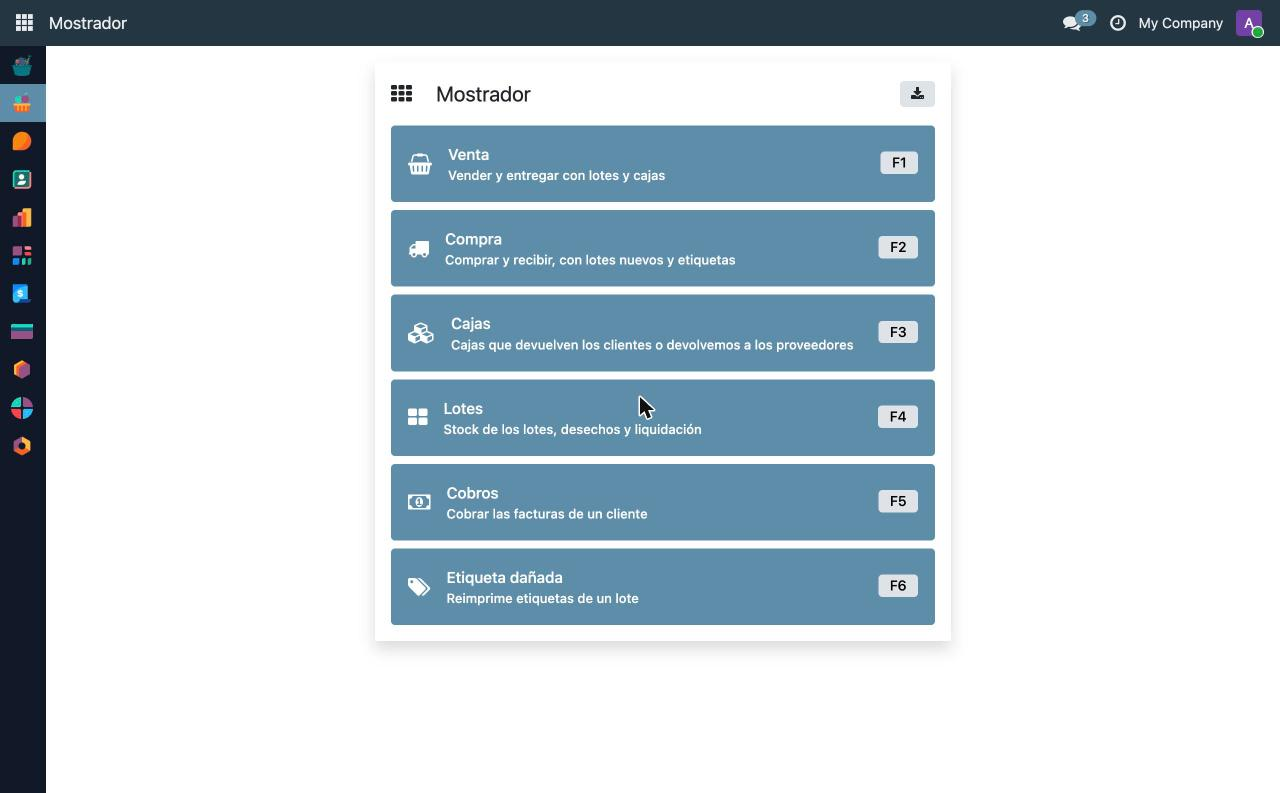
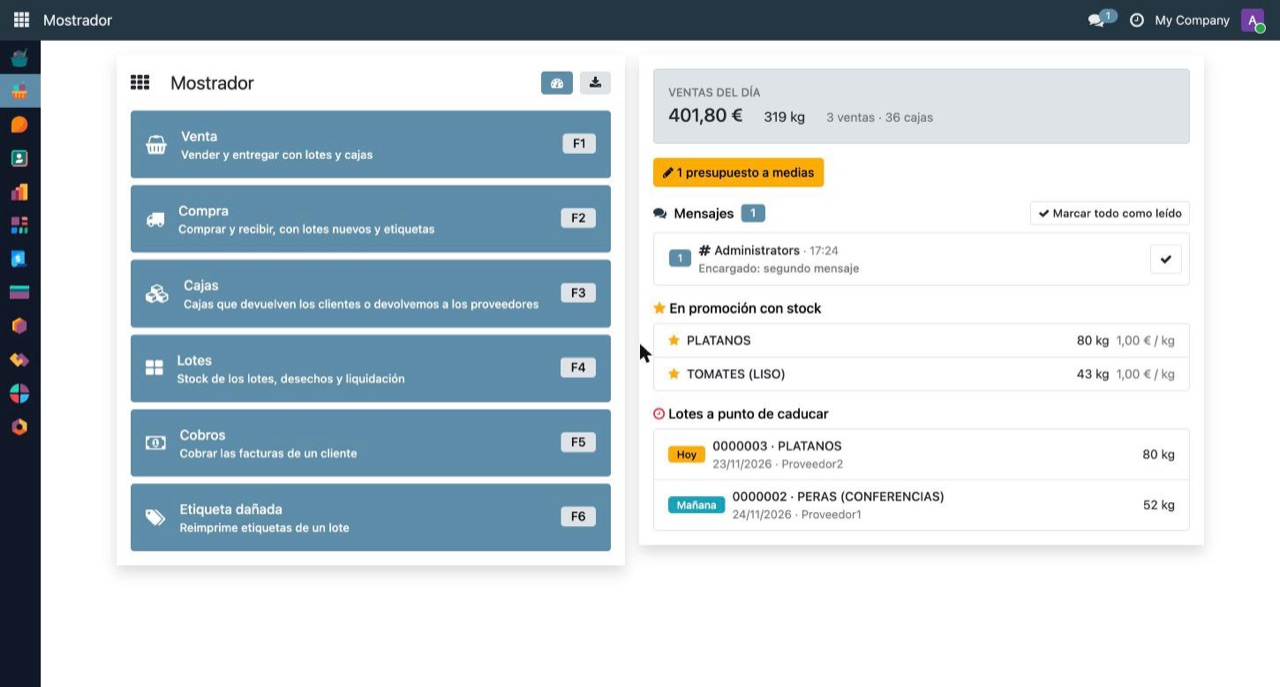
formacion_mercas: cuadro de mandos del Mostrador y resumen de Dirección
- 02: pantalla de inicio con el cuadro de mandos (ventas del día, mensajes,
  promociones, lotes a punto de caducar y sin fecha).
- 13 (nuevo): estrella de promoción, aviso de caducidad y "Sin caducidad",
  Mercas > Dirección y el correo de cada tarde.
- 20, 30, 31, README, glosario y guion del podcast actualizados.
- Capturas nuevas img/100-106 y 00_inicio_mostrador rehecha.

diff --git a/formacion_mercas/13_encargado_cuadro_de_mandos.md b/formacion_mercas/13_encargado_cuadro_de_mandos.md
@@ -1,0 +1,77 @@
+# 13 · Cuadro de mandos: promociones, caducidades y Dirección
+
+El cuadro de mandos tiene dos partes:
+
+- **En el Mostrador**, para la báscula: ventas del día, mensajes, productos en promoción y lotes que caducan ([capítulo 02](02_mostrador.md#el-cuadro-de-mandos-a-la-derecha)). El encargado decide qué sale ahí.
+- **En Odoo, menú Mercas › Dirección**, para el encargado y la dirección: cómo van las ventas, las compras, las mermas y la deuda.
+
+## 1. Productos en promoción: la estrella
+
+![Ficha del producto con la estrella y el aviso de caducidad](img/100_producto_estrella_caducidad.jpg)
+
+En la ficha del producto (**Mercas › Productos**), toca la **estrella** junto al nombre.
+
+- El producto sale en **En promoción con stock** del Mostrador mientras tenga stock.
+- En la venta (F1), al elegir familia, los productos con estrella **salen los primeros** y con la estrella en la ficha ([capítulo 20](20_bascula_venta.md)).
+- Para quitarlo de la promoción, vuelve a tocar la estrella.
+
+## 2. Caducidad de los lotes
+
+En la misma ficha del producto, para los productos con lote:
+
+| Campo | Para qué sirve |
+|---|---|
+| **Aviso de caducidad (días)** | Cuántos días antes de caducar un lote sale en **Lotes a punto de caducar**. Con **0** solo avisa el mismo día. En la formación, TOMATES, PERAS y PLATANOS tienen **3**. |
+| **Sin caducidad** | Sus lotes no caducan. No salen en **Lotes sin fecha de caducidad**. |
+
+La **fecha de caducidad** se pone **en cada lote**: en su ficha (F4 › *Detalle*, o tocando el lote en el cuadro del Mostrador) o en **Mercas › Lotes**.
+
+- Un lote nuevo toma **Sin caducidad** de su producto, pero se puede cambiar lote a lote.
+- En la lista de **Mercas › Lotes** hay un filtro **Sin fecha de caducidad** para repasar los que faltan.
+- La báscula ve el aviso también **al elegir el lote** en una venta: «Caducado», «Hoy», «Mañana» o «En N días».
+- **Un lote caducado se puede vender igualmente**: el Mostrador avisa, pero no lo impide. La decisión es de quien vende.
+
+## 3. Mercas › Dirección
+
+Lo ven los **administradores de ventas** y los **administradores de facturación**. A otra persona se le puede dar el permiso *Mercas: Dirección* (con el modo desarrollador).
+
+Arriba se elige la **fecha** del informe: hoy, por defecto, o cualquier día pasado.
+
+### Gráficos
+
+![Gráficos de Dirección](img/104_direccion_graficos.jpg)
+
+| Gráfico | Qué compara |
+|---|---|
+| **Semana, día a día** | Cada día de esta semana con la semana anterior y con la misma semana (por número) del año pasado. |
+| **Mes, acumulado** | Lo vendido este mes, día a día y sumando, con el mes anterior y el mismo mes del año pasado. La línea discontinua es la **previsión** de cierre. |
+| **Año, acumulado por meses** | Este año con el año pasado, con su previsión. |
+| **Deuda pendiente de clientes** | Lo que nos deben, por antigüedad: sin vencer, 1–30, 31–60, 61–90 y más de 90 días. |
+
+Al pasar el dedo (o el ratón) por un punto se ven los importes de ese día o mes.
+
+### Resumen
+
+![Fichas, ritmo y deuda](img/105_direccion_resumen.jpg)
+
+- **Fichas Día, Semana, Mes y Año:** importe y kg netos, con ▲▼ frente al año pasado. Las barras comparan:
+  - **el día** con el mismo día de la semana anterior y con el mismo día de la misma semana del año pasado (lunes de la semana 40 con lunes de la semana 40);
+  - **la semana** con la semana anterior completa y con la misma semana completa del año pasado: se ve «llevamos el X %»;
+  - **el mes** con el mes anterior completo («llevamos el X %») y con el mismo mes del año pasado.
+- **Ritmo del mes y del año:** lo vendido hasta hoy, la previsión de cierre a este ritmo y lo del año pasado a estas alturas y en total.
+- **Deuda de clientes:** la de hoy y la de hace un mes, a la misma escala, para ver si la deuda vieja crece.
+- Más abajo, las tablas: **ventas** (importe, kg, precio/kg, ventas y cajas), **compras y mermas** (% de merma), **deuda** (clientes y proveedores, por antigüedad y los que más deben), **pendiente** (ventas sin facturar y lotes por liquidar) y **cobros del día** por diario.
+
+Todos los importes son **sin impuestos**, y los kg son **netos**, sin las cajas.
+
+### El informe por correo
+
+El botón **Enviar por correo** lo manda en el momento. Además, cada tarde sale solo a quien lo tenga activado en su usuario:
+
+![Permiso para recibir el resumen por correo](img/106_usuario_resumen_correo.jpg)
+
+**Ajustes › Usuarios** › el usuario › pestaña **Permisos de acceso** › sección **Ventas** › **Resumen de Dirección por correo**: **Cada tarde**.
+
+- El usuario necesita un **correo electrónico** en su ficha.
+- Quien lo recibe por correo también puede ver la pantalla de Dirección.
+- El correo lleva las fichas, el ritmo, la deuda y las tablas, pero **no los gráficos de arriba**: los programas de correo no los muestran.

diff --git a/formacion_mercas/31_ejercicio_dia_completo.md b/formacion_mercas/31_ejercicio_dia_completo.md
@@ -12,30 +12,36 @@ Hazlo en la **base de pruebas**, con los clientes y proveedores de formación. C
 2. **Compra en liquidación** a Proveedor2: plátano, 250 kg brutos, 20 cajas ASCOY, 0,70 €/kg.
    - ✔ Comprueba: la casilla *Facturación firme* viene **desmarcada** y el neto es **220 kg**.
 
+3. **Promociones y caducidades** ([cap. 13](13_encargado_cuadro_de_mandos.md)): marca con la ⭐ el tomate y el plátano, y pon **3 días** de *Aviso de caducidad* a los tres productos.
+   - Pon al lote de pera una **fecha de caducidad** de mañana desde su ficha (F4 › *Detalle*).
+   - ✔ Comprueba: en la pantalla de inicio del Mostrador salen el tomate y el plátano **en promoción**, y la pera en **Lotes a punto de caducar** con «Mañana».
+
 ## Durante el día · Báscula
 
-3. **Cliente1 (fin de mes)** ([cap. 20](20_bascula_venta.md)):
+4. **Cliente1 (fin de mes)** ([cap. 20](20_bascula_venta.md)):
    - Tomate: 50 kg brutos en 5 cajas **MARI PILI** (nuestras), 1,20 €/kg. ✔ Neto **39 kg**.
    - Pera: 34,5 kg brutos en 3 cajas **ASCOY** (las de la compra), 1,50 €/kg. ✔ Neto **30 kg**.
    - Vender y entregar, e imprimir **solo el albarán**.
-4. **Cliente2 (contado)** ([cap. 21](21_bascula_contado.md)):
+5. **Cliente2 (contado)** ([cap. 21](21_bascula_contado.md)):
    - Plátano en 4 cajas MARI PILI. El bruto son dos pesadas de 24,4 kg: escríbelo con la **calculadora**. ✔ Neto **40 kg**.
    - Vender, **Facturar** y **Cobrar con tarjeta**.
-5. **Cliente1 devuelve sus 5 cajas** MARI PILI como **saldo** ([cap. 22](22_bascula_cajas.md)).
-6. Se rompe una etiqueta del lote de tomate: **reimprime solo 1** ([cap. 23](23_bascula_etiqueta.md)).
-7. **Pedido en camión de Cliente1** ([cap. 24](24_bascula_palets_deca_correo.md)): tomate en 6 cajas MARI PILI, pera en 8 ASCOY y plátano en 10 MARI PILI.
+6. **Cliente1 devuelve sus 5 cajas** MARI PILI como **saldo** ([cap. 22](22_bascula_cajas.md)).
+7. Se rompe una etiqueta del lote de tomate: **reimprime solo 1** ([cap. 23](23_bascula_etiqueta.md)).
+8. **Pedido en camión de Cliente1** ([cap. 24](24_bascula_palets_deca_correo.md)): tomate en 6 cajas MARI PILI, pera en 8 ASCOY y plátano en 10 MARI PILI.
    - **Palets:** reparto rápido en 2 palets europeos; después pasa 2 cajas de pera al palet 1 y cambia el palet 2 a desechable, de 1.100 mm.
    - Vender y entregar. ✔ Comprueba: en la cabecera aparece **1 europalet** junto a las cajas.
    - **DeCA** con Transportista1 y las matrículas. ✔ Comprueba: el aviso de datos pendientes desaparece.
    - **Imprimir:** ✔ Comprueba que se ofrecen albarán, DeCA y packing list.
    - **Enviar por correo:** revisa los destinatarios (en formación, no pulses *Enviar*).
+9. **Cuadro de mandos** ([cap. 02](02_mostrador.md)): toca el lote de pera en *Lotes a punto de caducar* y comprueba que se abre su ficha. Si hay mensajes sin leer, ábrelos o márcalos como leídos.
 
 ## Cierre · Encargado
 
-8. Desecha 3 kg de tomate ([cap. 11](11_encargado_lotes.md)).
-9. Prueba a **Liquidar** el lote de plátano. ¿Qué mensaje sale y por qué? Haz después un **adelanto** y revisa el margen.
-10. **Fin de mes de Cliente1** ([cap. 12](12_encargado_facturacion.md)): *Para facturar* › Facturar › Cobrar en **efectivo** aplicando el saldo de las cajas.
+10. Desecha 3 kg de tomate ([cap. 11](11_encargado_lotes.md)).
+11. Prueba a **Liquidar** el lote de plátano. ¿Qué mensaje sale y por qué? Haz después un **adelanto** y revisa el margen.
+12. **Fin de mes de Cliente1** ([cap. 12](12_encargado_facturacion.md)): *Para facturar* › Facturar › Cobrar en **efectivo** aplicando el saldo de las cajas.
    - ✔ Comprueba: se cobra la factura **menos el saldo** de las cajas.
+13. **Dirección** ([cap. 13](13_encargado_cuadro_de_mandos.md)): abre **Mercas › Dirección** y busca las ventas del día y la previsión de cierre del mes.
 
 ## Preguntas de repaso
 
@@ -44,3 +50,5 @@ Hazlo en la **base de pruebas**, con los clientes y proveedores de formación. C
 3. ¿Cuándo se usa *Liquidar* y cuándo *Facturar adelanto*?
 4. Un cliente devuelve cajas y paga a fin de mes. ¿Saldo o pagar ahora?
 5. ¿Dónde encuentras una venta que dejaste a medias?
+6. Un lote sale como «Caducado» al elegirlo. ¿Se puede vender? ¿Qué deberías hacer?
+7. ¿Dónde se decide con cuántos días de antelación avisa un lote antes de caducar?

diff --git a/formacion_mercas/02_mostrador.md b/formacion_mercas/02_mostrador.md
@@ -21,6 +21,26 @@ Hay un botón por tarea, cada uno con su tecla de función:
 - **F5 no recarga la página** en el Mostrador: abre *Cobros*. Para recargar, usa el botón del navegador.
 - El botón de descarga (arriba a la derecha) **instala el Mostrador como aplicación** en la tablet.
 
+## El cuadro de mandos (a la derecha)
+
+Junto a los botones está lo que hay que saber de un vistazo. En una pantalla estrecha sale debajo de los botones.
+
+| Apartado | Qué muestra | Qué hacer |
+|---|---|---|
+| **Ventas del día** | Importe sin impuestos, kg netos, número de ventas y de cajas. | Solo informa. |
+| **Presupuestos a medias** y **ventas por entregar** | Ventas que alguien dejó sin terminar, y ventas confirmadas que aún no han salido. | Toca el botón amarillo para ir a **F1 › En curso**. |
+| **Mensajes** | Canales y chats con mensajes sin leer: cuántos, de quién y el último. | Toca la fila para abrir la conversación y contestar. Con **✓** se marca como leída sin abrirla; **Marcar todo como leído** las marca todas. |
+| **En promoción con stock** ⭐ | Productos marcados con la estrella que tienen stock, con los kg y el precio. | Son los que hay que ofrecer primero. |
+| **Lotes a punto de caducar** | Lotes con stock que caducan pronto, los caducados primero: «Caducado», «Hoy», «Mañana» o «En N días». | Toca el lote para abrir su ficha. Véndelo antes, o desecha lo que ya no sirva (F4). |
+| **Lotes sin fecha de caducidad** | Lotes con stock sin fecha y sin marcar como «Sin caducidad». | Toca el lote y rellena su **Fecha de caducidad** o marca **Sin caducidad**. |
+
+![Ficha del lote abierta desde el cuadro de mandos](img/101_panel_ficha_lote.jpg)
+
+- Al tocar un lote se abre **su ficha**, igual que con *Detalle* en F4. Se puede corregir la fecha de caducidad, marcar *Sin caducidad*, o desechar, imprimir etiquetas o hacer inventario. Al cerrarla, el cuadro se actualiza.
+- El cuadro **se actualiza solo** con cada venta, compra o desecho, en cualquier pantalla, al llegar un mensaje y, además, cada 5 minutos.
+- El botón del **cuentakilómetros** (arriba, junto al de descarga) **muestra u oculta** el cuadro. En morado se ve; en gris está oculto. Cada tablet recuerda su elección: se puede ocultar en una báscula y dejar en otra.
+- Qué productos salen en promoción y con cuántos días de antelación avisa cada lote lo decide el encargado ([capítulo 13](13_encargado_cuadro_de_mandos.md)).
+
 ## Teclado numérico y calculadora
 
 Todos los números (kg, precio, importe…) se pueden escribir con el **teclado de la pantalla**, con el del dispositivo o con una **báscula que escriba como teclado**.

diff --git a/formacion_mercas/30_errores_frecuentes.md b/formacion_mercas/30_errores_frecuentes.md
@@ -21,6 +21,7 @@
 | He salido a mitad de una venta. | No pasa nada: está en **F1 › En curso**. |
 | He vendido y me he equivocado de precio. | Si aún no está facturado, el encargado lo corrige desde **Abrir**. Si ya está facturado, hace falta un abono. |
 | El cliente supera su riesgo. | El pedido se queda en presupuesto y aparece un aviso. Solo un responsable de riesgo puede dejarlo continuar. |
+| Un lote sale como **Caducado** al elegirlo. | Se puede vender, pero mejor elige otro lote si lo hay, o pregunta al encargado. |
 
 ## Cobros
 
@@ -45,3 +46,14 @@
 | **Factura firme** da error. | Algún lote marcado no es de facturación firme. |
 | La liquidación paga el precio de venta íntegro. | El margen del proveedor (o el general de la empresa) está a 0 %. |
 | Se ha dejado el **lote** vacío en una compra que traía lote del proveedor. | Se crea un lote nuevo, lo cual es correcto. Solo hay que escribir el lote si interesa conservar el del proveedor. |
+| Un lote sale en **Lotes sin fecha de caducidad** y no caduca nunca. | Márcalo como **Sin caducidad** en su ficha, o en el producto para todos sus lotes ([capítulo 13](13_encargado_cuadro_de_mandos.md)). |
+| Un lote **no avisa** antes de caducar. | El producto tiene **Aviso de caducidad (días)** a 0: solo avisa el mismo día. Pon los días en su ficha. |
+
+## Cuadro de mandos y Dirección
+
+| Error | Solución |
+|---|---|
+| No se ve el cuadro de mandos en el Mostrador. | Está oculto en esa tablet: toca el botón del **cuentakilómetros**, junto al de descarga. |
+| Un producto no sale en **En promoción con stock**. | No tiene la estrella o no tiene stock. |
+| No veo el menú **Mercas › Dirección**. | Hace falta ser administrador de ventas o de facturación, o tener el permiso *Mercas: Dirección*. |
+| No me llega el **correo de Dirección**. | Activa **Resumen de Dirección por correo: Cada tarde** en tu usuario y comprueba que tienes correo electrónico. |

diff --git a/formacion_mercas/glosario.md b/formacion_mercas/glosario.md
@@ -5,10 +5,13 @@
 | **Adelanto (de liquidación)** | Factura al proveedor de lo vendido hasta hoy de un lote en liquidación que aún tiene stock. |
 | **Albarán** | Documento de entrega de la mercancía. *Vender y entregar* lo valida. |
 | **Bruto** | Peso total en la báscula, con las cajas. |
+| **Caducidad** | Fecha en que caduca un lote. Se pone en el lote; el producto dice cuántos días antes se avisa (*Aviso de caducidad*) o que no caduca (*Sin caducidad*). |
 | **Caja / envase** | Producto que se cuenta y se cobra aparte. Su peso es la tara. |
 | **Compensar** | Convertir el importe de las cajas devueltas en saldo a favor del cliente. |
+| **Cuadro de mandos** | Parte derecha de la pantalla de inicio del Mostrador: ventas del día, mensajes, promociones y lotes que caducan. |
 | **DeCA** | Documento de control del transporte de mercancía. |
 | **Desechar** | Dar de baja kg estropeados de un lote. |
+| **Dirección (resumen de)** | Menú *Mercas › Dirección*: ventas, compras, mermas y deuda comparadas con otros periodos. Se puede recibir cada tarde por correo. |
 | **Facturación firme** | Trato con el proveedor: se le paga todo lo recibido. |
 | **Liquidación por venta** | Trato con el proveedor: se le paga lo vendido menos nuestro margen. |
 | **Liquidar** | Factura final al proveedor de un lote en liquidación ya agotado. |
@@ -18,5 +21,6 @@
 | **Neto** | Bruto menos la tara: lo que se compra o se vende. |
 | **Packing list** | Relación de palets y cajas de un pedido. |
 | **Presupuesto** | Venta en preparación. Se guarda sola. |
+| **Promoción (⭐)** | Producto marcado con la estrella: sale primero en la venta y en el cuadro de mandos mientras tenga stock. |
 | **Saldo a favor** | Dinero del cliente pendiente de aplicar: cajas devueltas, anticipos o lo que sobra de un cobro. |
 | **Tara** | Peso de las cajas: número de cajas × peso del tipo de caja. |

diff --git a/formacion_mercas/README.md b/formacion_mercas/README.md
@@ -17,7 +17,7 @@ Todas las capturas están hechas en la base de pruebas, a tamaño tablet, con da
 
 | Puesto | Tareas | Capítulos |
 |---|---|---|
-| **Encargado** | Compra la mercancía, factura a los clientes de fin de mes, pone los precios especiales y liquida a los proveedores. | 10, 11 y 12 |
+| **Encargado** | Compra la mercancía, factura a los clientes de fin de mes, pone los precios especiales y liquida a los proveedores. Decide las promociones y las caducidades y sigue el resumen de Dirección. | 10 a 13 |
 | **Báscula** | Vende: despacha a los clientes que vienen y prepara los pedidos, cobra a los de contado y recoge las cajas devueltas. | 20 a 24 |
 
 Todos deberían leer primero los capítulos 01 y 02.
@@ -25,13 +25,14 @@ Todos deberían leer primero los capítulos 01 y 02.
 ## Índice
 
 1. [Conceptos básicos](01_conceptos.md): lote, caja, tara, bruto y neto, firme o liquidación, saldo a favor.
-2. [El Mostrador](02_mostrador.md): pantalla de inicio, teclas F1–F6, teclado numérico y calculadora.
+2. [El Mostrador](02_mostrador.md): pantalla de inicio y cuadro de mandos, teclas F1–F6, teclado numérico y calculadora.
 
 **Encargado**
 
 - [10 · Comprar y recibir (F2)](10_encargado_compras.md)
 - [11 · Lotes: stock, desechos y liquidación al proveedor (F4)](11_encargado_lotes.md)
 - [12 · Facturación de fin de mes y cobro con saldo a favor](12_encargado_facturacion.md)
+- [13 · Cuadro de mandos: promociones, caducidades y Dirección](13_encargado_cuadro_de_mandos.md)
 
 **Báscula**
 

diff --git a/formacion_mercas/podcast/guion.md b/formacion_mercas/podcast/guion.md
@@ -109,6 +109,14 @@ Para generar el audio:
 
 **LUCÍA:** Si el lote ya se ha acabado, «Liquidar». Si aún queda género pero el proveedor quiere cobrar algo, «Facturar adelanto». Y una cosa que confunde: si le das a «Liquidar» a un lote que todavía tiene stock, sale «No hay lotes que facturar». No es un error del programa: ese lote no está terminado.
 
+**ANDRÉS:** ¿Y lo que sale a la derecha de las teclas, en la pantalla de inicio?
+
+**LUCÍA:** Es el cuadro de mandos, míralo cada vez que vuelvas al inicio. Arriba, lo vendido en el día. Luego los mensajes que te mandemos, que los tocas y contestas. Después, lo que está en promoción, con una estrella: esos productos son los que hay que ofrecer primero, y en la venta te salen los primeros. Y abajo, los lotes que caducan pronto, los caducados primero.
+
+**ANDRÉS:** ¿Y si un lote está caducado, no me deja venderlo?
+
+**LUCÍA:** Te deja, pero te avisa: al elegir el lote verás «Caducado», «Hoy» o «Mañana». Si tienes otro lote, coge el otro; si no, pregúntame. Y si ves un lote sin fecha de caducidad, tócalo: se abre su ficha y le pones la fecha, o le marcas que no caduca.
+
 **[Pausa]**
 
 **ANDRÉS:** Resumiendo, para que me quede…

diff --git a/formacion_mercas/20_bascula_venta.md b/formacion_mercas/20_bascula_venta.md
@@ -24,11 +24,19 @@ Arriba, junto al nombre, se ven en cuanto existen:
 
 Toca el producto, búscalo, o **escanea la etiqueta de una caja**: se abre directamente su lote.
 
+![Productos en promoción, los primeros](img/102_venta_favoritos.jpg)
+
+Los productos **en promoción** llevan una ⭐ y salen **los primeros** en cada familia: son los que el encargado quiere que se ofrezcan antes ([capítulo 13](13_encargado_cuadro_de_mandos.md)).
+
 ## 3. Lote
 
 ![Lotes del producto](img/22_venta_lote.jpg)
 
 Se ven los lotes con stock, **el más antiguo primero**: kg disponibles, proveedor, fecha, origen y si es **Firme**. Elige el que vas a despachar (normalmente el primero).
+
+![Lote que caduca hoy](img/103_venta_lote_caduca.jpg)
+
+Si un lote **caduca pronto o ya ha caducado**, lleva una etiqueta de color: **Caducado** (rojo), **Hoy**, **Mañana** o **En N días**. Se puede vender igualmente, pero fíjate antes de elegirlo y, si tienes dudas, pregunta al encargado.
 
 ## 4. La línea: bruto, cajas y precio
 
